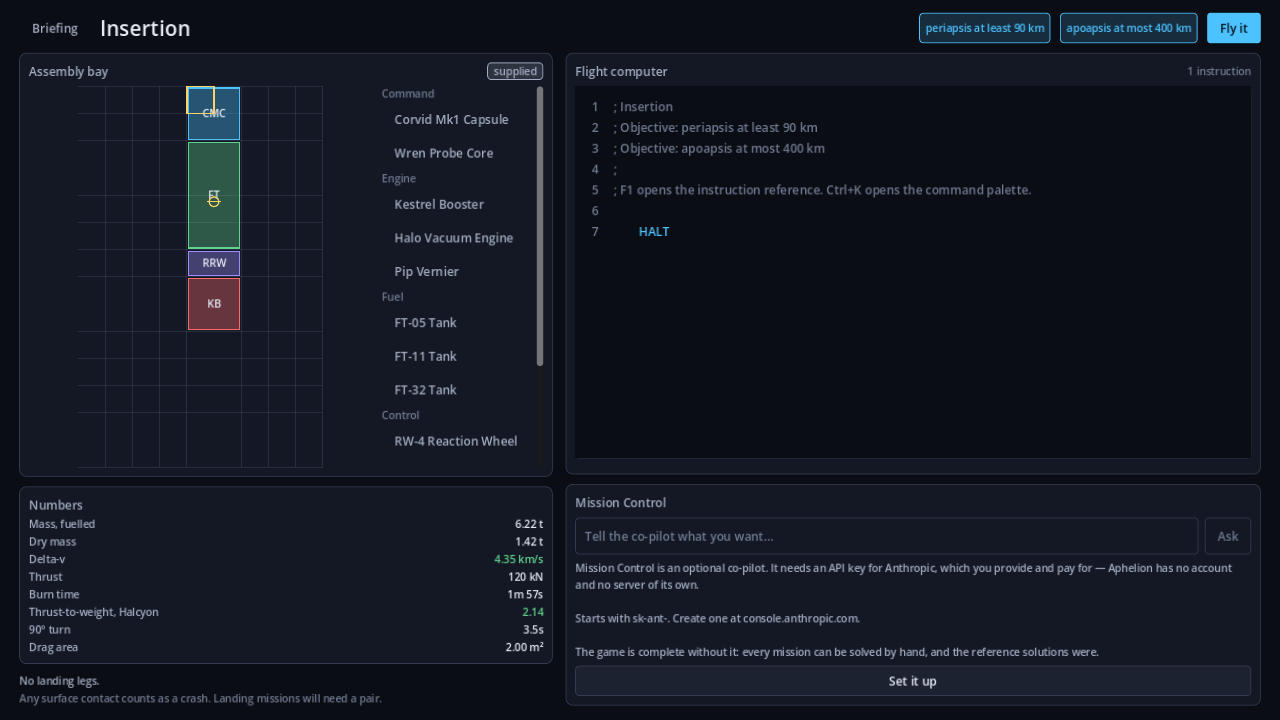
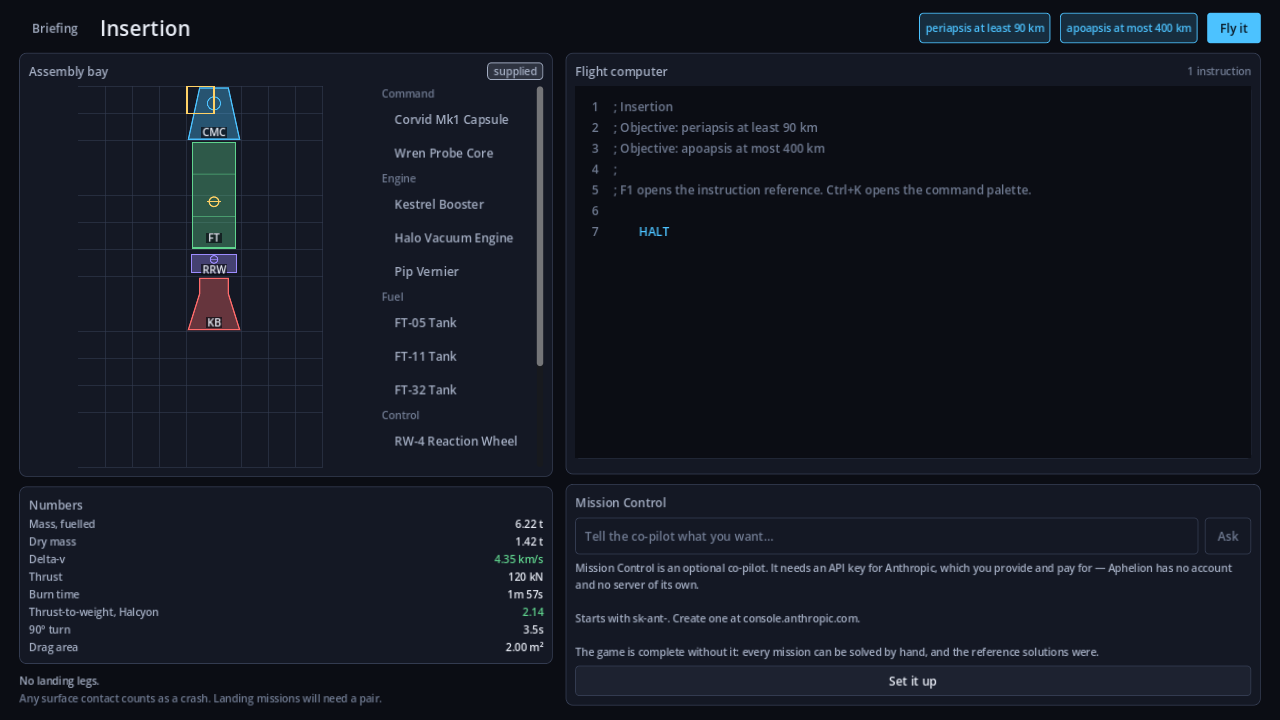
fix(ui): draw the parts as the parts they are, and stop the map lying
Two things the screenshots made obvious once there were screenshots to look at.

**The map was drawing a path straight through the planet.** The predicted orbit
was rendered as a complete conic regardless of where it went. On an ascent the
periapsis is usually hundreds of kilometres underground, so the map showed a
dashed ellipse sailing through the rock and out the other side, with a labelled
marker at the bottom of it reading "Pe -205.9 km" — pointing at a place on the
map that does not exist, for a spot the ship never reaches because it hits the
ground first.

The conic now breaks wherever it passes below the surface, and where it first
crosses from sky into ground it is marked Impact. The legend has carried an
"impact" entry since the first version of this map; this is the thing it was
describing. The underground periapsis marker is gone, because it was pointing
at nothing; the number itself still matters, so the instruments panel keeps it —
that negative figure is exactly how much periapsis has to come up.

For a game whose whole claim is that the simulation is honest, a map that draws
a trajectory through solid rock is the one picture it must not show.

**Every part was the same rectangle.** A crew capsule, a propellant tank, an
engine bell and a reaction wheel differed only by hue and two initials — and the
three structural parts, a strut, an ablative shield and a set of landing legs,
did not differ at all, because they share a category. A ship is something you
[…]

Changed region(s): [[0.125, 0.1222, 0.1875, 0.4583]]

diff --git a/CHANGELOG.md b/CHANGELOG.md
@@ -131,6 +131,43 @@ CI now fails if any screen clips content it cannot scroll to, at 80%, 100%,
 130% or 160%. The check was verified by reverting one of the fixes and watching
 it fail.
 
+### Fixed — the map was drawing a path through the planet
+
+The predicted orbit was drawn as a complete conic regardless of where it went.
+On an ascent the periapsis is usually hundreds of kilometres underground, so the
+map showed a dashed ellipse sailing straight through the rock and out the other
+side, with a labelled marker at the bottom of it reading "Pe -205.9 km" —
+pointing at a place on the map that does not exist, for a spot the ship never
+reaches because it hits the ground first.
+
+The conic is now broken wherever it passes below the surface, and where it
+first crosses from sky into ground it is marked **Impact**. The legend has
+carried an "impact" entry since the first version of this map; this is the
+thing it was describing. The underground periapsis marker is gone — the number
+still matters and the instruments panel still shows it, because that negative
+figure is exactly how much periapsis has to come up.
+
+### Changed — parts look like the parts they are
+
+Every part was the same rounded rectangle, so a crew capsule, a propellant
+tank, an engine bell and a reaction wheel differed only by hue and two initials
+— and the three structural parts (a strut, an ablative shield and a set of
+landing legs) did not differ at all, since they share a category. A ship is
+something you look at in order to understand it, so it has to look like the
+thing it is.
+
+Each part now carries a `shape`, defaulting from its category and named
+explicitly in `data/parts.json` where the category cannot say enough. There are
+eight: a tapered capsule with a window, a probe core under an antenna, a banded
+tank, a flared engine bell, a gyro in its housing, a cross-braced strut, an
+ablative dome, and legs braced out to a pair of feet.
+
+The initials stay, because a silhouette is a non-colour signal but not one
+anything can read aloud. They moved to the bottom edge on a dark backing plate
+— centred, they landed on the capsule's window and the reaction wheel's gyro,
+and two marks on top of each other read as neither — and a one-cell part gets
+two letters rather than three, which is all that fits at a size worth drawing.
+
 ### Changed — what the map costs to draw
 
 - The trail was drawing **one `draw_circle` per powered sample, every frame**.
